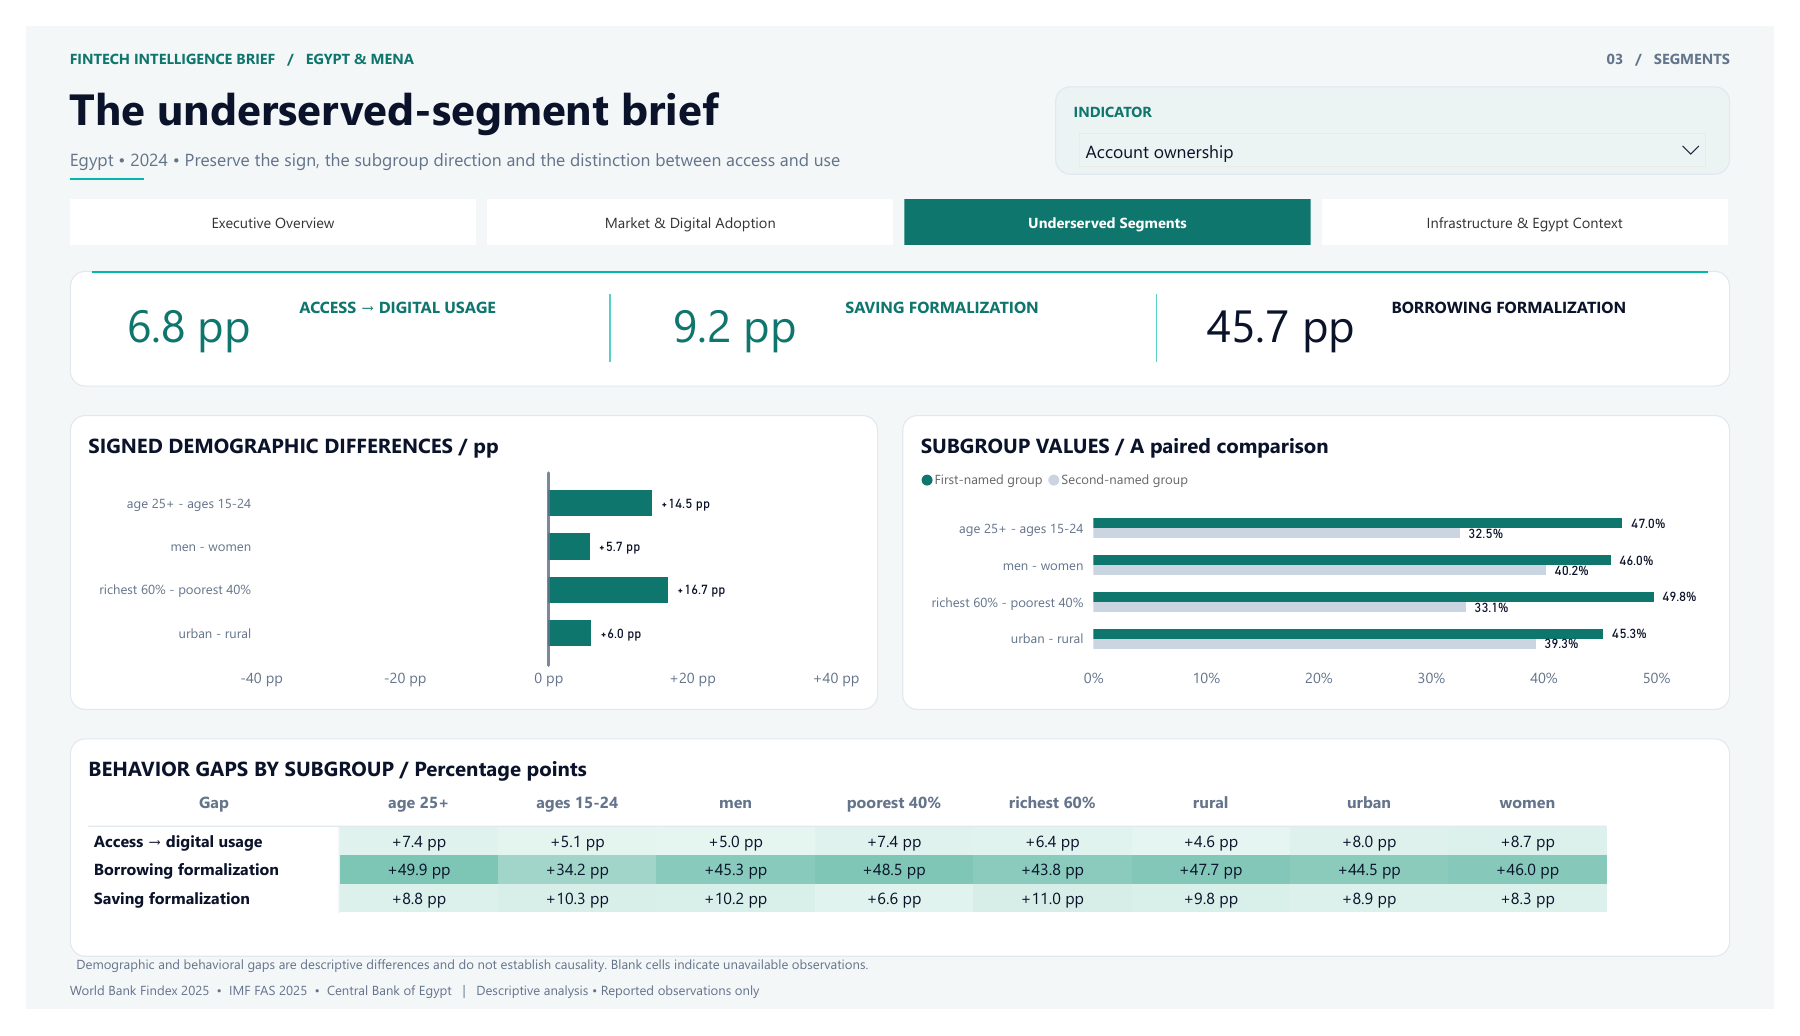
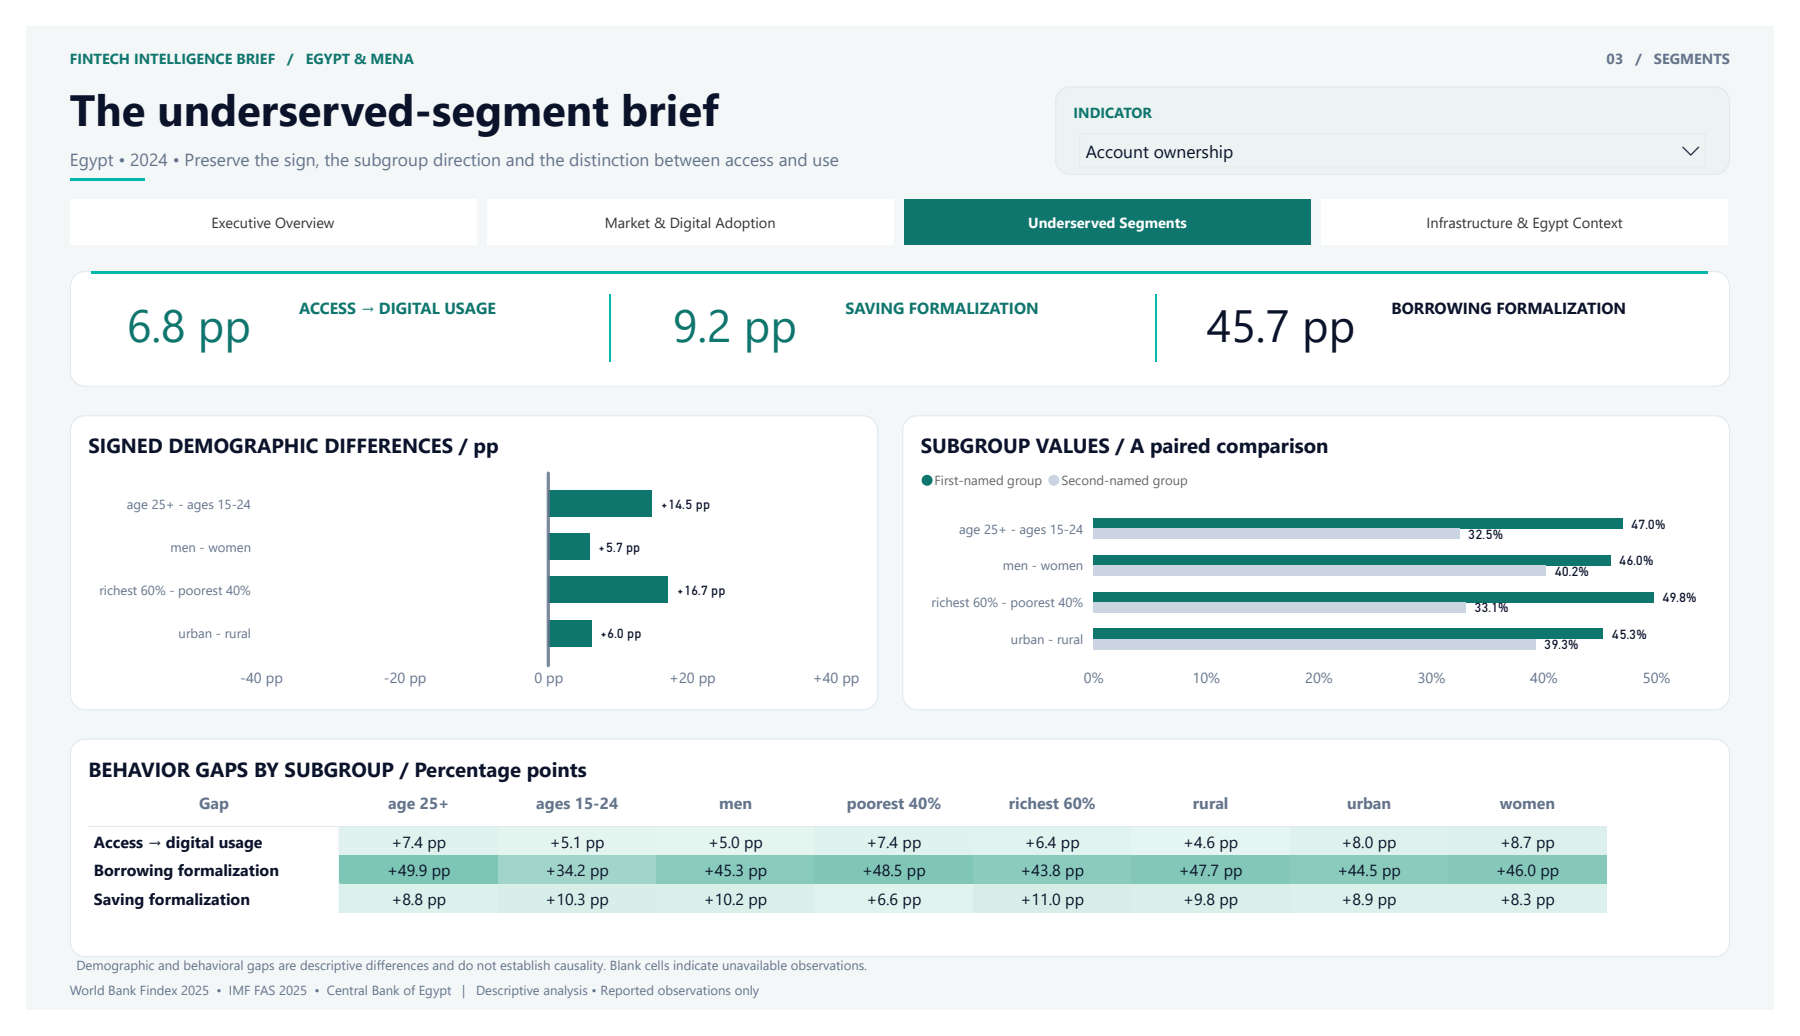
Strengthen validation and methodology

diff --git a/docs/methodology.md b/docs/methodology.md
@@ -4,6 +4,8 @@
 
 This portfolio business case supports a hypothetical **Strategy & Growth team at a regional fintech or digital bank**. It examines financial access, digital usage, underserved segments, formalization, digital readiness, and supply-side infrastructure in Egypt and selected MENA markets. No real institution commissioned the project. Findings are descriptive evidence for further investigation, not causal estimates, customer-level targeting, forecasts, or market-size estimates.
 
+References to "opportunity" and "underserved" identify questions for further investigation. Descriptive differences alone do not establish unmet demand, commercial opportunity, causality, addressable markets, or individual-level behavior.
+
 The implementation is defined by the [five notebooks](../notebooks/) and [seven SQL scripts](../sql/). This document describes their existing logic rather than introducing alternative calculations.
 
 ## Country framework
@@ -15,7 +17,7 @@ The implementation is defined by the [five notebooks](../notebooks/) and [seven 
 | Advanced benchmark | Saudi Arabia | Separate comparator; excluded from the peer mean. |
 | Supplementary benchmark | United Arab Emirates | Retained where available; detailed indicator coverage is weaker. Excluded from the peer mean and the six-market IMF ranking/checkpoint views. |
 
-The six main comparison countries are Egypt, the four peers, and Saudi Arabia. `reporting_peers` and `reporting_countries` make the denominator visible. These are selected-market comparisons, not estimates for MENA as a whole. Peer membership is a project framework, not a statistically optimized match.
+The six main comparison countries are Egypt, the four peers, and Saudi Arabia. `reporting_peers` and `reporting_countries` make the denominator visible. These are selected-market comparisons, not estimates for MENA as a whole. Peer membership is a project framework, not a statistically optimized match. Egypt's +9.6 pp digital-payment comparison is against this specified unweighted peer mean; it does not imply that Egypt exceeds every selected peer.
 
 ## Time framework
 
